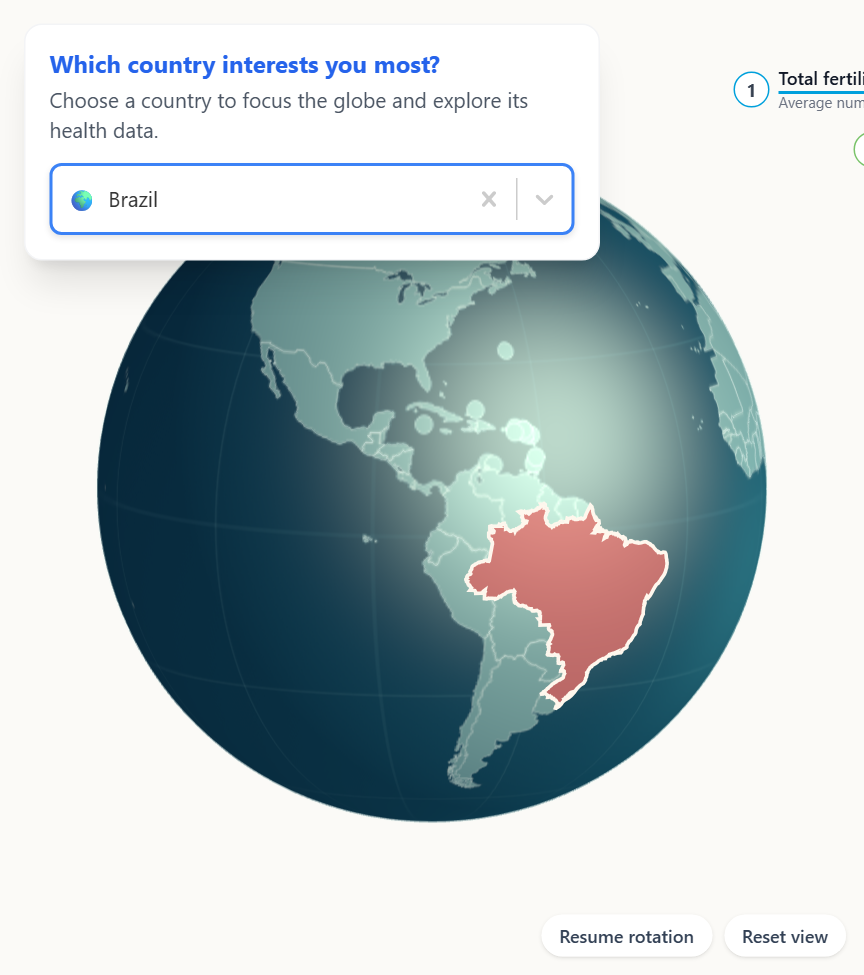
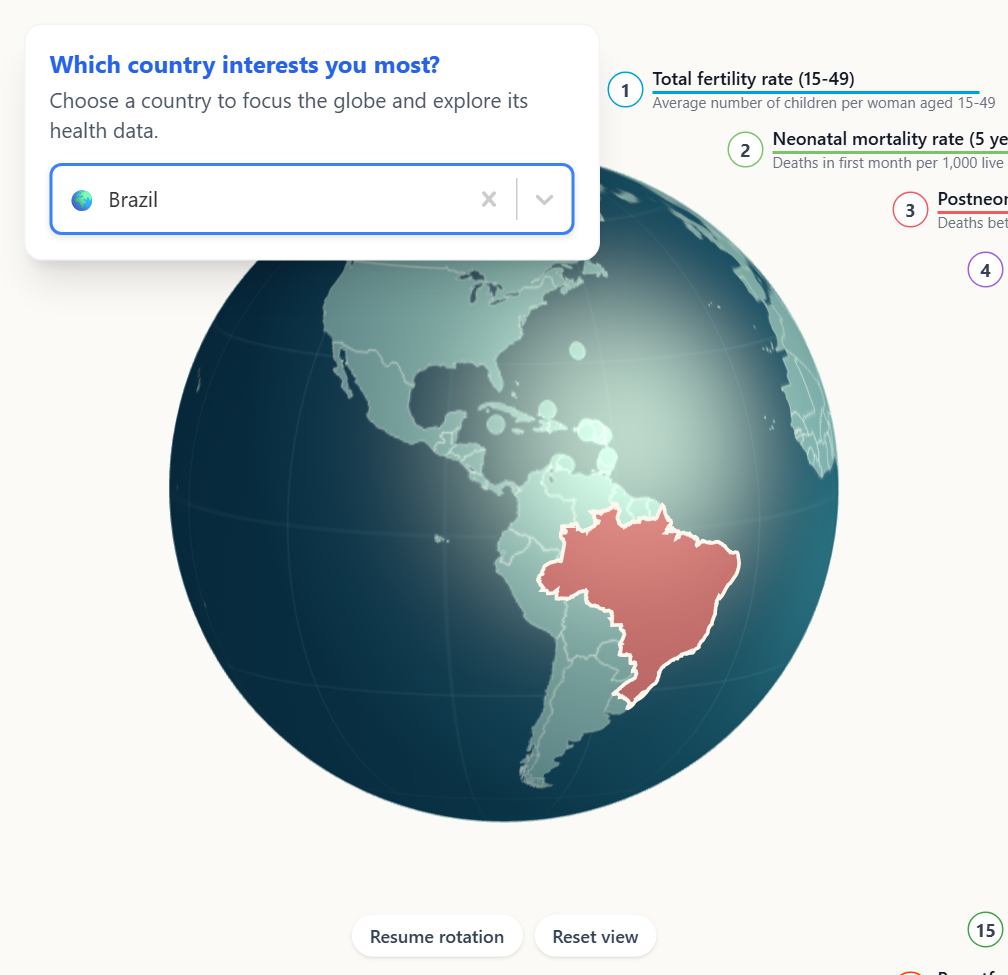
Fix clicks

diff --git a/src/components/globe/AtlasGlobe.tsx b/src/components/globe/AtlasGlobe.tsx
@@ -127,7 +127,12 @@ const AtlasGlobe: React.FC<AtlasGlobeProps> = ({
   const sceneRef = useRef<SceneState | null>(null);
   const onCountrySelectRef = useRef(onCountrySelect);
   const onErrorRef = useRef(onError);
-  const pointerOriginRef = useRef<{ x: number; y: number } | null>(null);
+  const pointerOriginRef = useRef<{
+    x: number;
+    y: number;
+    pointerId: number;
+    countryCode: string | null;
+  } | null>(null);
   const draggedRef = useRef(false);
   const [size, setSize] = useState({ width: 0, height: 0 });
   const [isReady, setIsReady] = useState(false);
@@ -492,17 +497,44 @@ const AtlasGlobe: React.FC<AtlasGlobeProps> = ({
           role="img"
           aria-label="Interactive globe. Choose a country from the search box or select it on the globe."
           onPointerDown={(event) => {
-            pointerOriginRef.current = { x: event.clientX, y: event.clientY };
+            // A pinch or a secondary mouse button must never select a country.
+            if (!event.isPrimary || event.button !== 0) {
+              pointerOriginRef.current = null;
+              draggedRef.current = true;
+              return;
+            }
+            pointerOriginRef.current = {
+              x: event.clientX,
+              y: event.clientY,
+              pointerId: event.pointerId,
+              countryCode: (event.target as Element).getAttribute('data-country-code'),
+            };
             draggedRef.current = false;
           }}
           onPointerMove={(event) => {
             const origin = pointerOriginRef.current;
-            if (origin && Math.hypot(event.clientX - origin.x, event.clientY - origin.y) > 6) {
+            if (origin && origin.pointerId === event.pointerId
+              && Math.hypot(event.clientX - origin.x, event.clientY - origin.y) > 6) {
               draggedRef.current = true;
             }
           }}
-          onPointerUp={() => {
-            window.setTimeout(() => { draggedRef.current = false; }, 0);
+          onPointerUp={(event) => {
+            const origin = pointerOriginRef.current;
+            pointerOriginRef.current = null;
+            if (!origin || origin.pointerId !== event.pointerId || draggedRef.current
+              || Math.hypot(event.clientX - origin.x, event.clientY - origin.y) > 6) return;
+
+            // OrbitControls captures the pointer on this SVG, so pointerup and
+            // click target the SVG even when the press began on a country.
+            // Hit-test the release position instead of relying on that target.
+            const hit = document.elementFromPoint(event.clientX, event.clientY);
+            const countryCode = hit?.getAttribute('data-country-code');
+            if (hit && event.currentTarget.contains(hit)
+              && countryCode && countryCode === origin.countryCode) chooseCountry(countryCode);
+          }}
+          onPointerCancel={() => {
+            pointerOriginRef.current = null;
+            draggedRef.current = false;
           }}
         >
           <defs>
@@ -531,13 +563,12 @@ const AtlasGlobe: React.FC<AtlasGlobeProps> = ({
                 className="cursor-pointer transition-colors"
                 onMouseEnter={() => setHoveredIso3(iso3Code)}
                 onMouseLeave={() => setHoveredIso3(null)}
-                onClick={() => chooseCountry(iso3Code)}
               />
             );
           })}
           </g>
         </svg>
-      <div className="absolute bottom-3 right-3 flex gap-2">
+      <div className="absolute bottom-3 right-3 flex gap-2 lg:right-1/2 lg:translate-x-1/2">
         <button
           type="button"
           onClick={toggleRotation}

diff --git a/src/pages/Home.tsx b/src/pages/Home.tsx
@@ -1026,8 +1026,8 @@ const Home: React.FC = () => {
                                {/* Desktop Layout: Globe and Indicator List Side by Side */}
           <div className="flex w-full max-w-7xl mx-auto flex-col gap-8 px-4 lg:flex-row lg:items-start">
             {/* Globe Visualization (left) with floating country selector */}
-            <div className="flex-1 flex justify-center">
-              <div className="w-full max-w-xl rounded-lg overflow-visible relative flex items-center justify-center">
+            <div className="min-w-0 flex-1 flex justify-center lg:justify-end">
+              <div className="w-full max-w-xl lg:max-w-2xl rounded-lg overflow-visible relative flex items-center justify-center">
                 <Suspense fallback={
                   <div className="flex items-center justify-center w-full h-full">
                     <LoadingSpinner />
